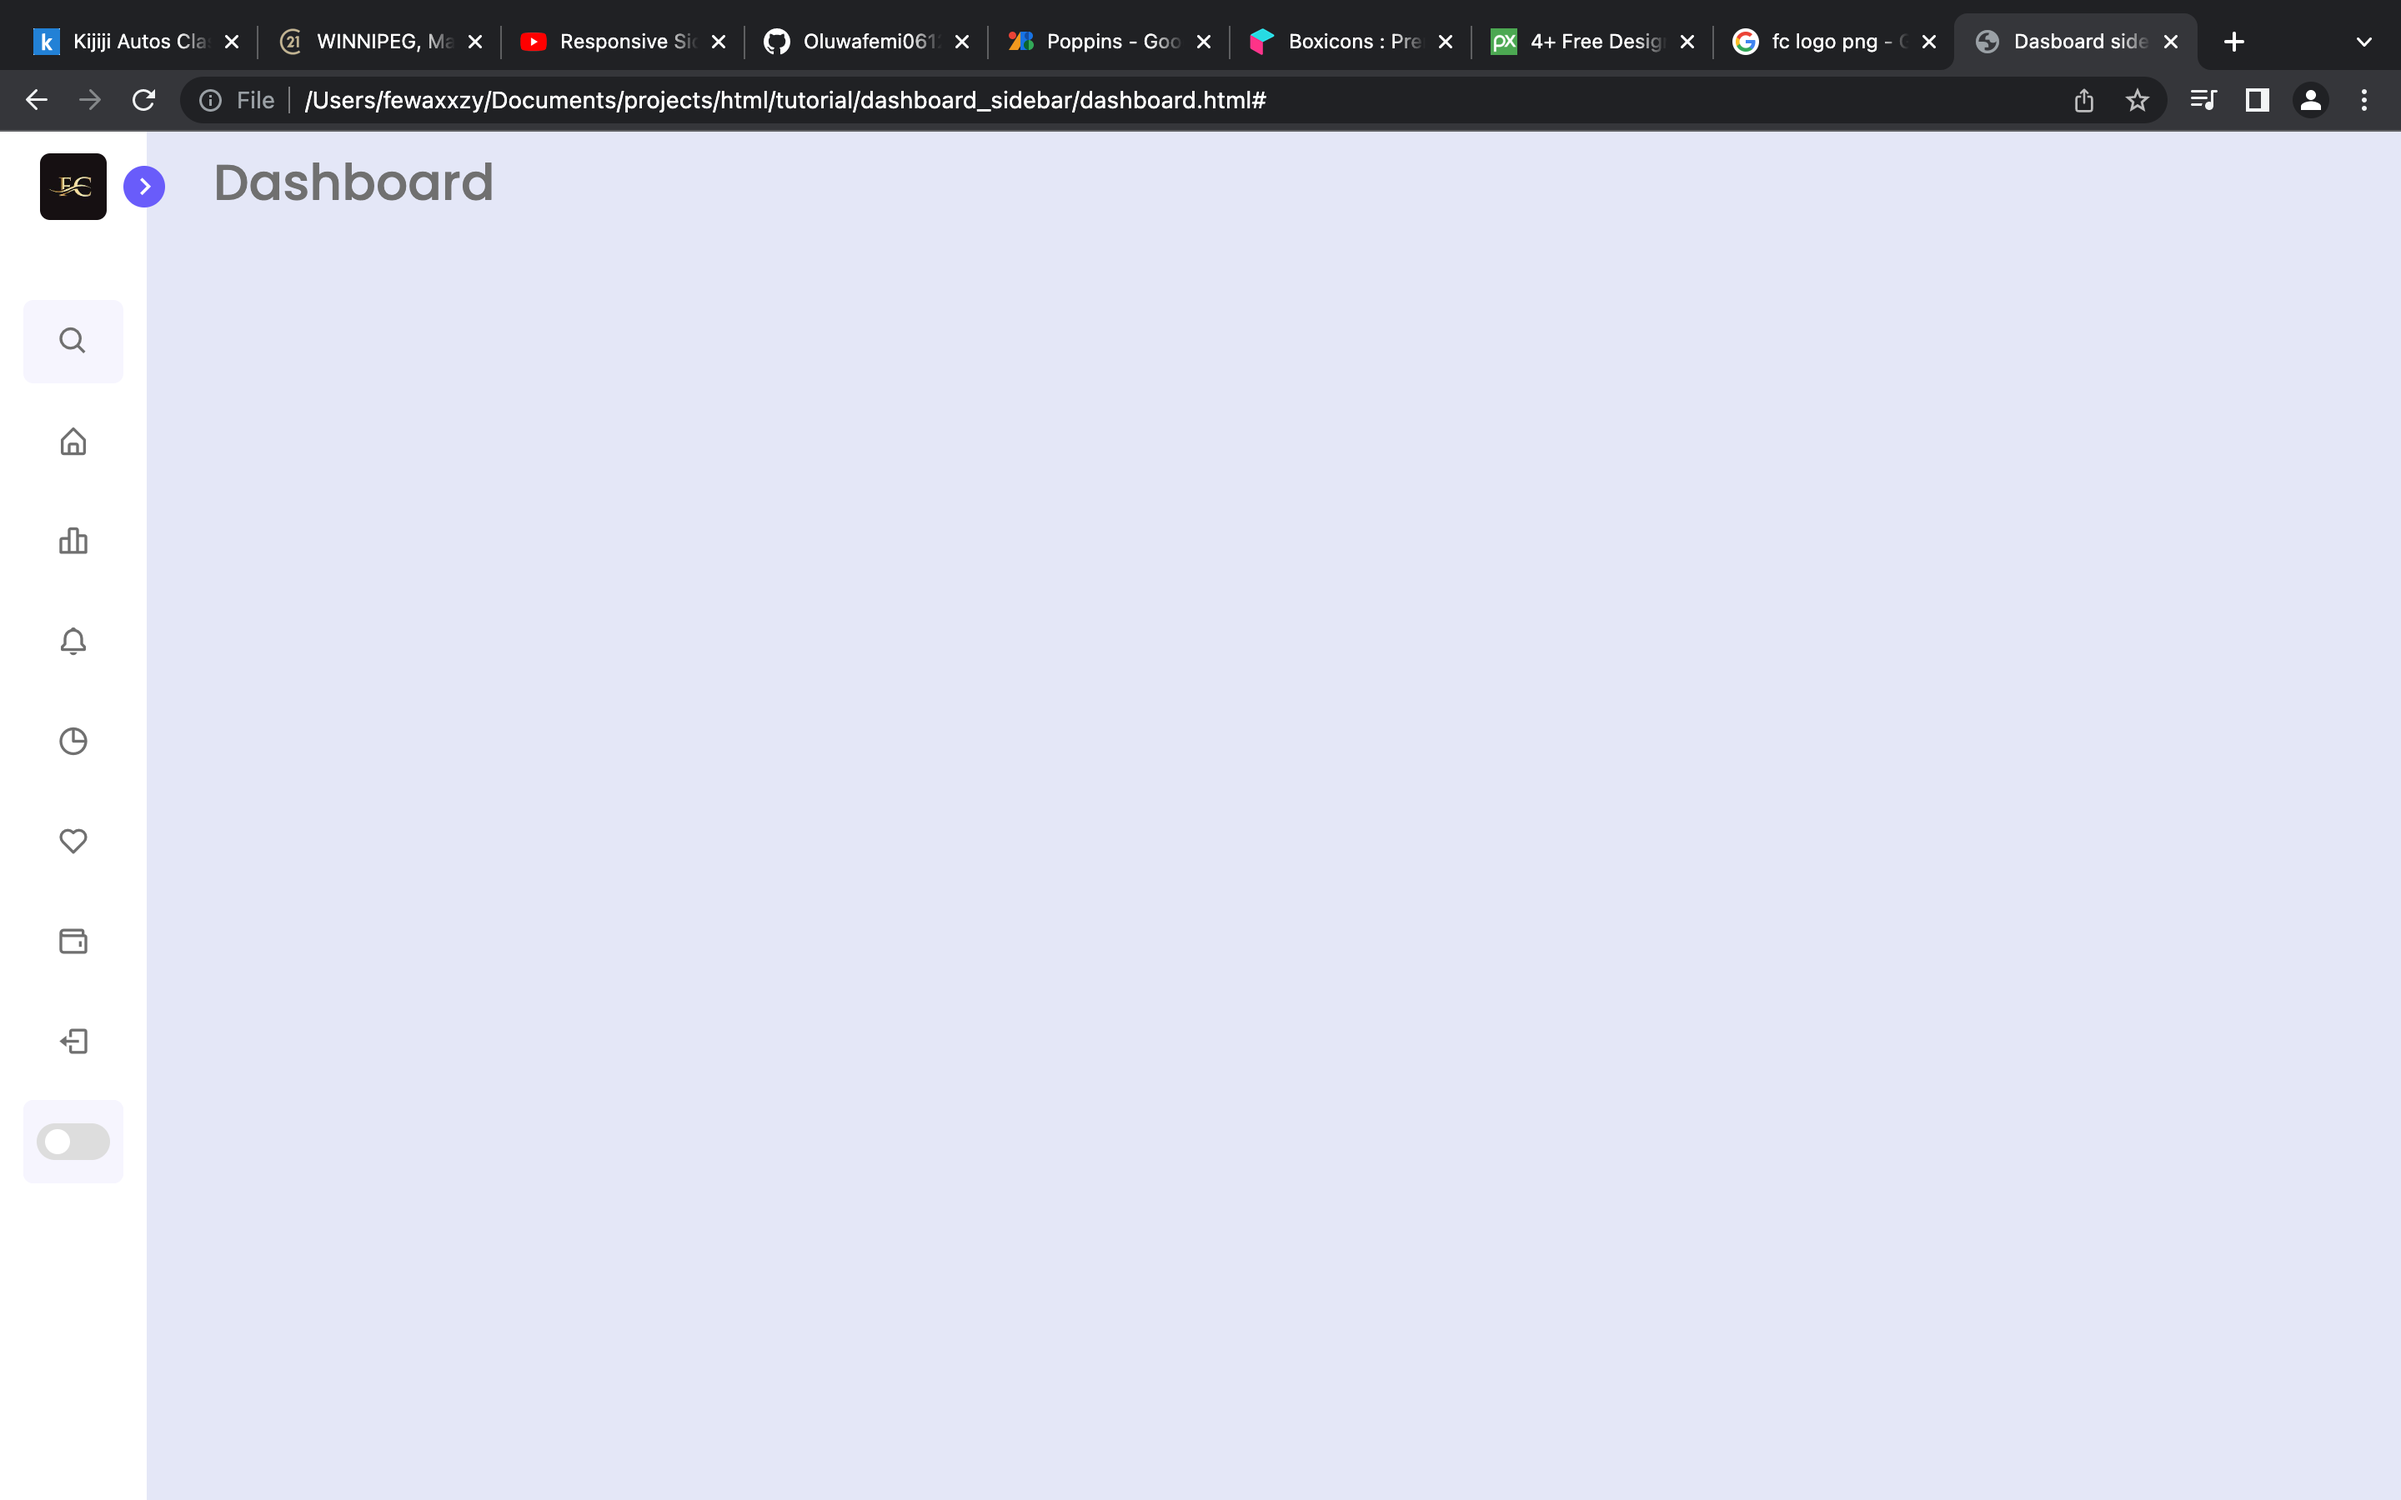
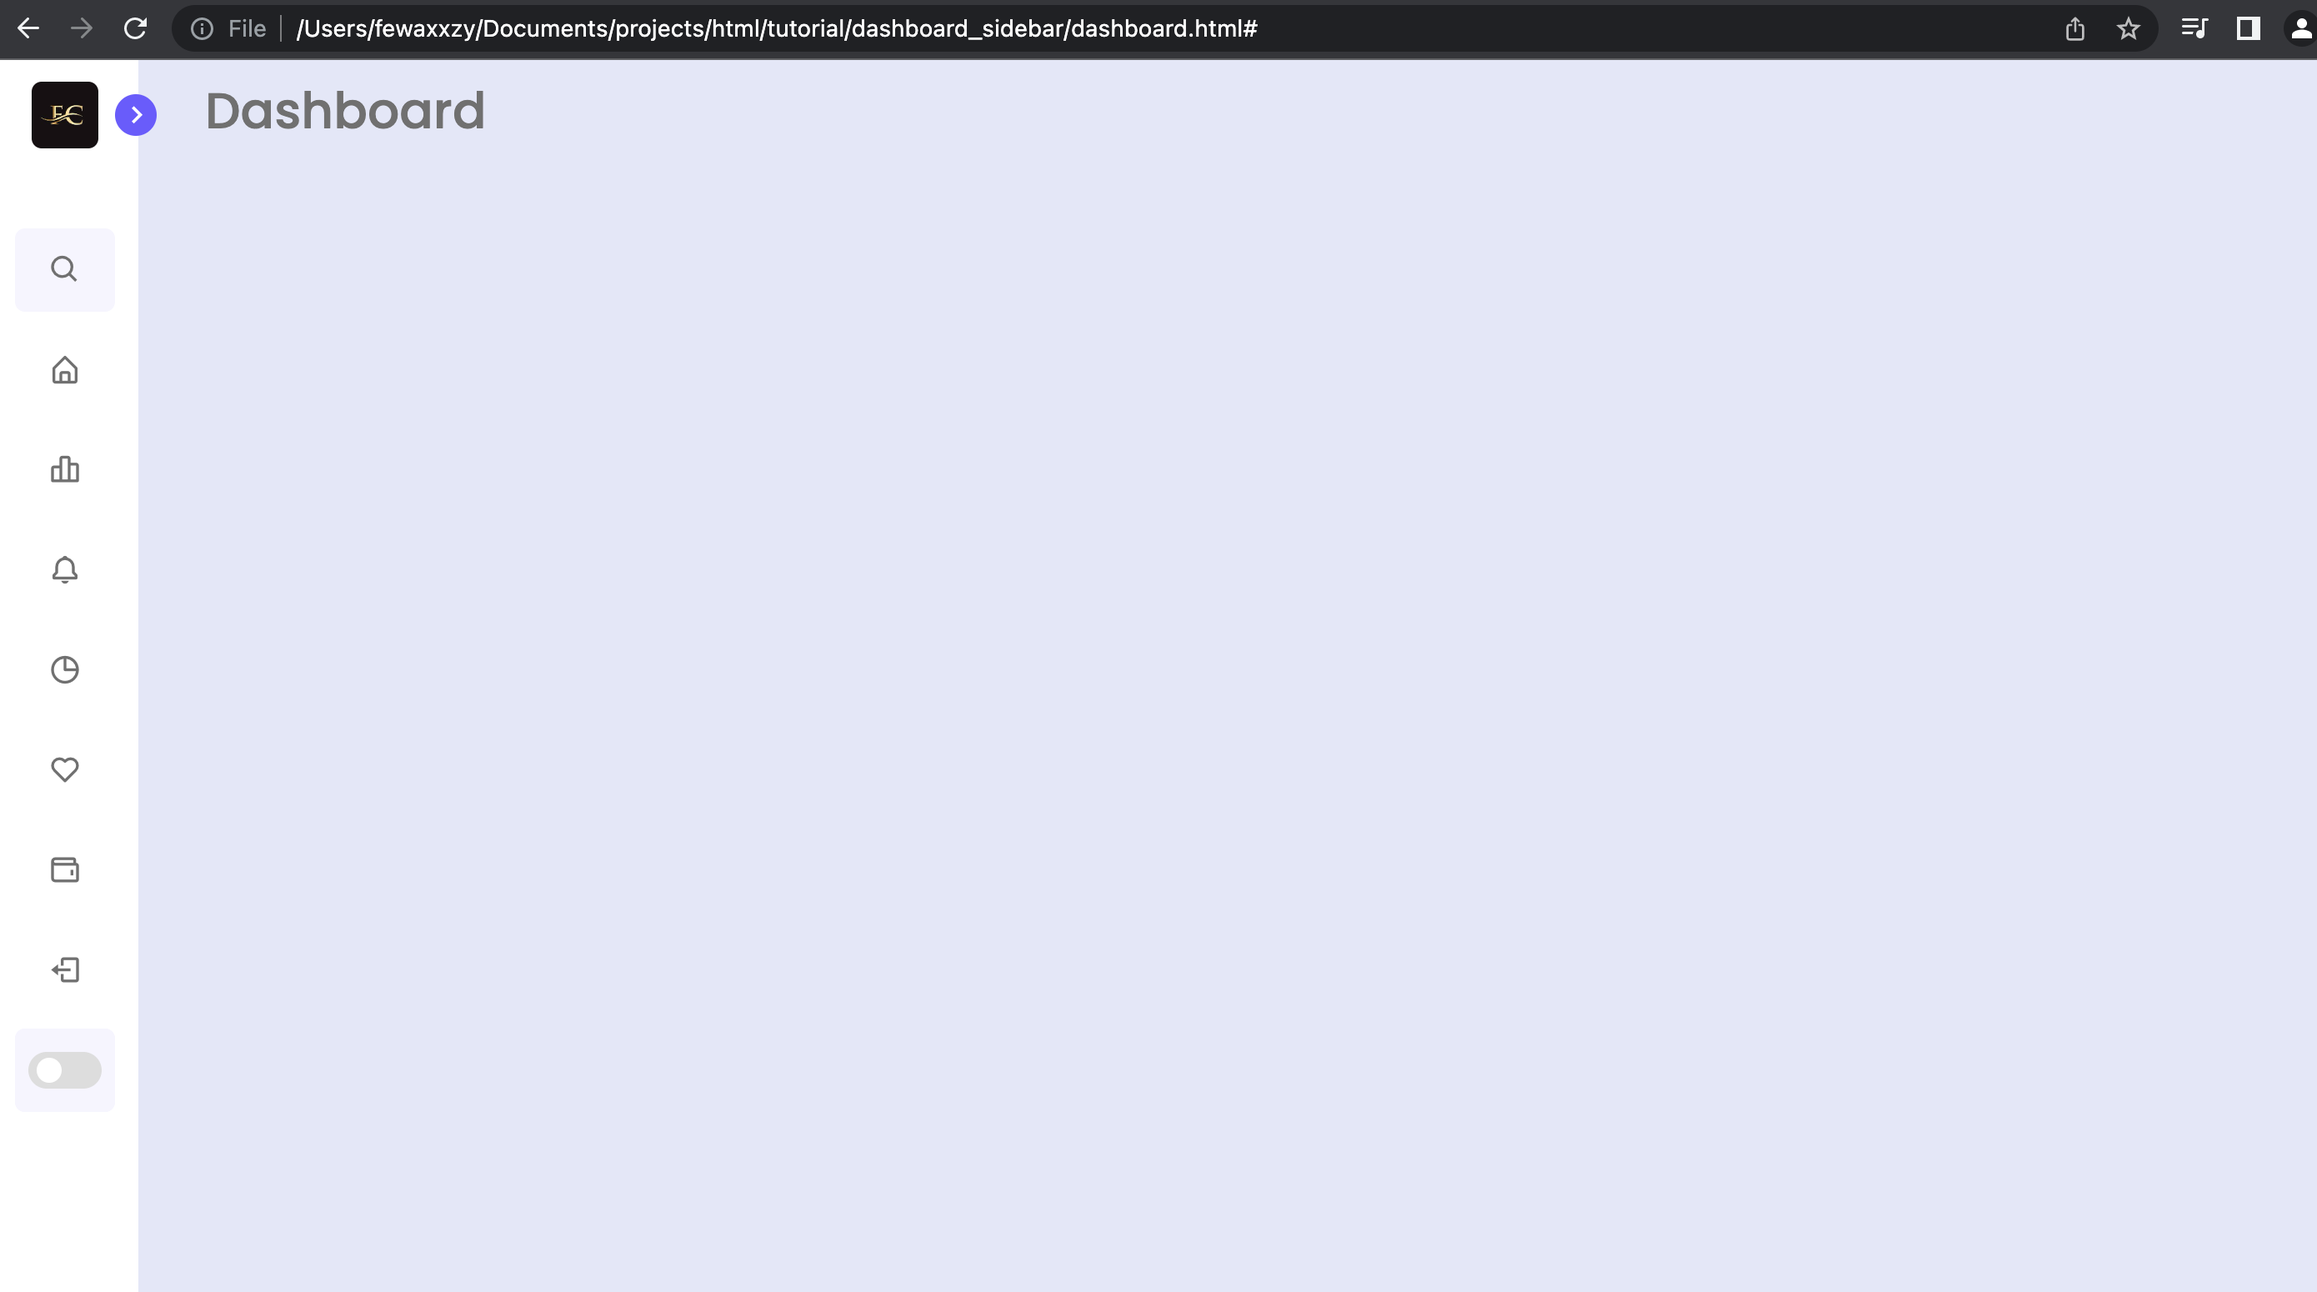
sidebar open and close images changed

diff --git a/README.md b/README.md
@@ -1,3 +1,3 @@
-<img src="https://github.com/Oluwafemi0612/sidebar_dashboard/blob/main/screenshoot/image1.png?raw=true" alt="open dashboard" width="250">
+<img src="https://github.com/Oluwafemi0612/sidebar_dashboard/blob/main/screenshoot/image1.png?raw=true" alt="close dashboard">
 
-<img src="https://github.com/Oluwafemi0612/sidebar_dashboard/blob/main/screenshoot/image2.png?raw=true" alt="close dashboard" width="250">
+<img src="https://github.com/Oluwafemi0612/sidebar_dashboard/blob/main/screenshoot/image2.png?raw=true" alt="open dashboard"git>
